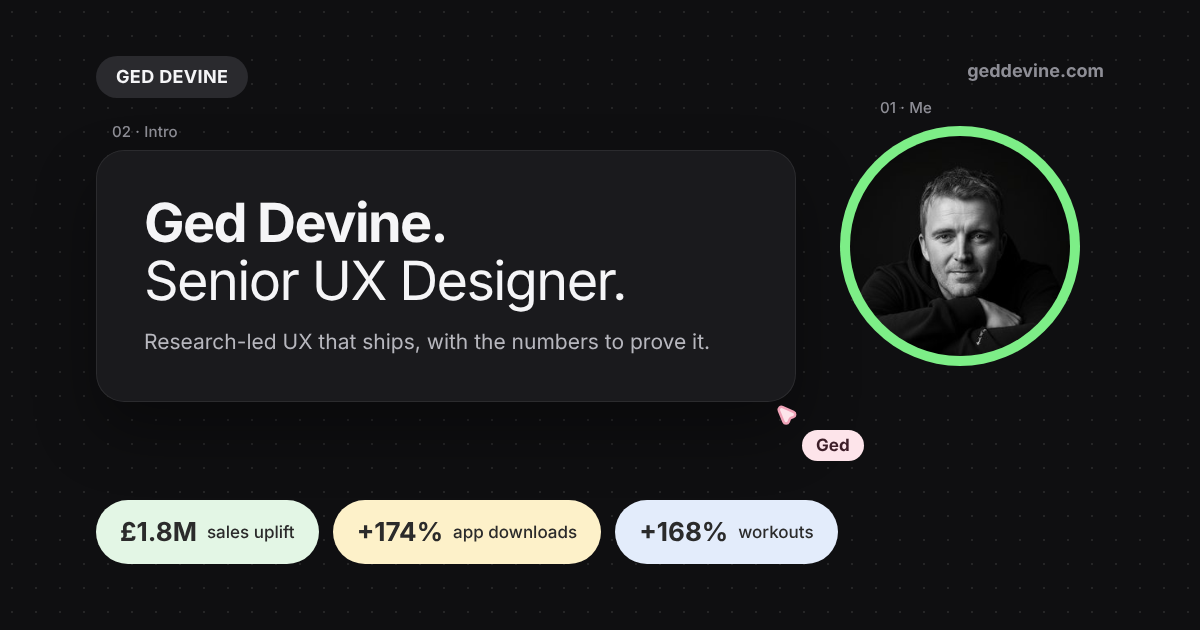
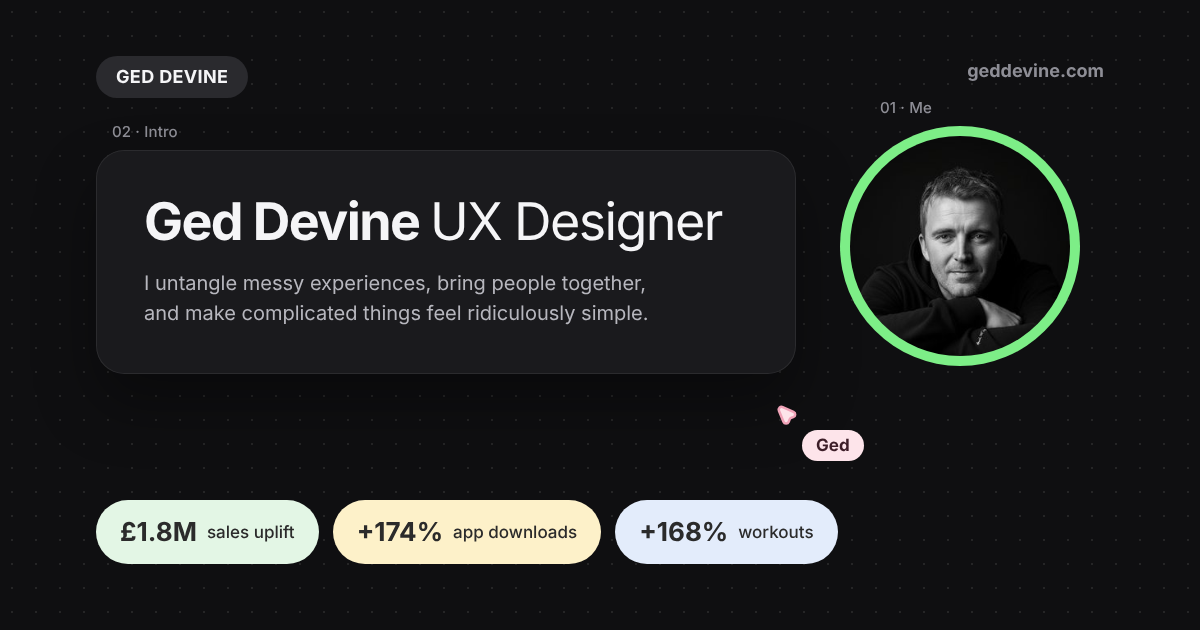
Title and share card: UX Designer, matching the homepage hero
Claude-Session: https://claude.ai/code/session_01K987epnhCcXHj24fQF8T7S

Changed region(s): [[0.1233, 0.3016, 0.6167, 0.573]]

diff --git a/index.html b/index.html
@@ -2,7 +2,7 @@
 <html lang="en-GB">
 <meta charset="utf-8">
 <meta name="viewport" content="width=device-width,initial-scale=1,viewport-fit=cover">
-<meta name="description" content="Ged Devine, Senior UX Designer in Manchester. Research-led UX that ships, with the numbers to prove it.">
+<meta name="description" content="Ged Devine, UX Designer in Manchester. Research-led UX that ships, with the numbers to prove it.">
 <meta name="theme-color" content="#0F0F11">
 <link rel="canonical" href="https://www.geddevine.com/">
 <link rel="icon" href="/favicon.svg" type="image/svg+xml">
@@ -11,18 +11,18 @@
 <meta property="og:type" content="website">
 <meta property="og:site_name" content="Ged Devine">
 <meta property="og:url" content="https://www.geddevine.com/">
-<meta property="og:title" content="Ged Devine · Senior UX Designer, Manchester">
+<meta property="og:title" content="Ged Devine · UX Designer, Manchester">
 <meta property="og:description" content="Research-led UX that ships, with the numbers to prove it. Case studies across retail, ecommerce, banking and subscription, plus Matter, a multi-brand design system.">
 <meta property="og:image" content="https://www.geddevine.com/og.png">
 <meta property="og:image:width" content="1200">
 <meta property="og:image:height" content="630">
-<meta property="og:image:alt" content="Ged Devine, Senior UX Designer: research-led UX that ships, with the numbers to prove it.">
+<meta property="og:image:alt" content="Ged Devine, UX Designer: research-led UX that ships, with the numbers to prove it.">
 <meta property="og:locale" content="en_GB">
 <meta name="twitter:card" content="summary_large_image">
-<meta name="twitter:title" content="Ged Devine · Senior UX Designer, Manchester">
+<meta name="twitter:title" content="Ged Devine · UX Designer, Manchester">
 <meta name="twitter:description" content="Research-led UX that ships, with the numbers to prove it.">
 <meta name="twitter:image" content="https://www.geddevine.com/og.png">
-<title>Ged Devine · Senior UX Designer, Manchester</title>
+<title>Ged Devine · UX Designer, Manchester</title>
 <link rel="preconnect" href="https://fonts.googleapis.com">
 <link rel="preconnect" href="https://fonts.gstatic.com" crossorigin>
 <link rel="stylesheet" href="https://fonts.googleapis.com/css2?family=DM+Sans:opsz,wght@9..40,300;9..40,400;9..40,500;9..40,600;9..40,700&family=Inter:wght@200;300;400;500;600;700&family=Caveat:wght@400;500;700&family=Press+Start+2P&family=Playfair+Display:wght@400&family=Jost:wght@400&family=Montserrat:wght@600;700;800&display=swap">
